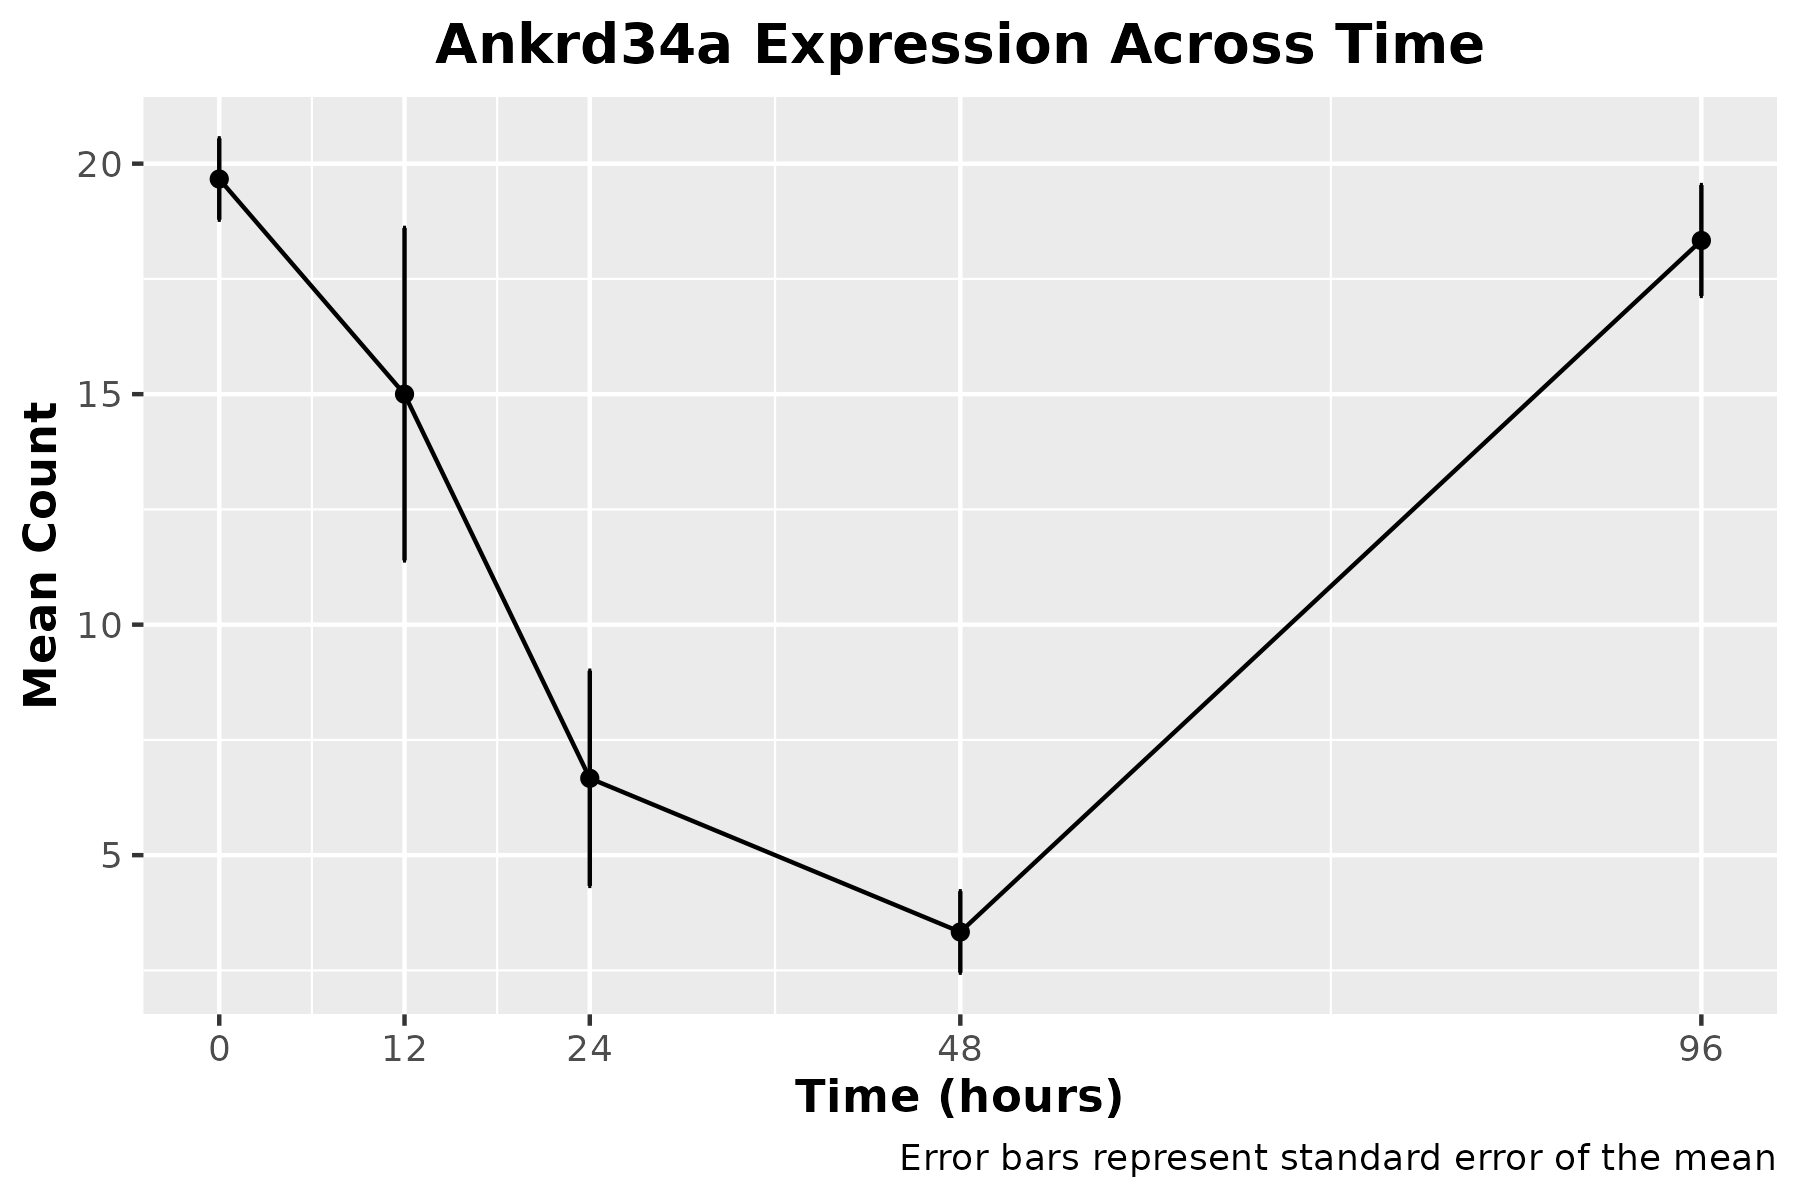
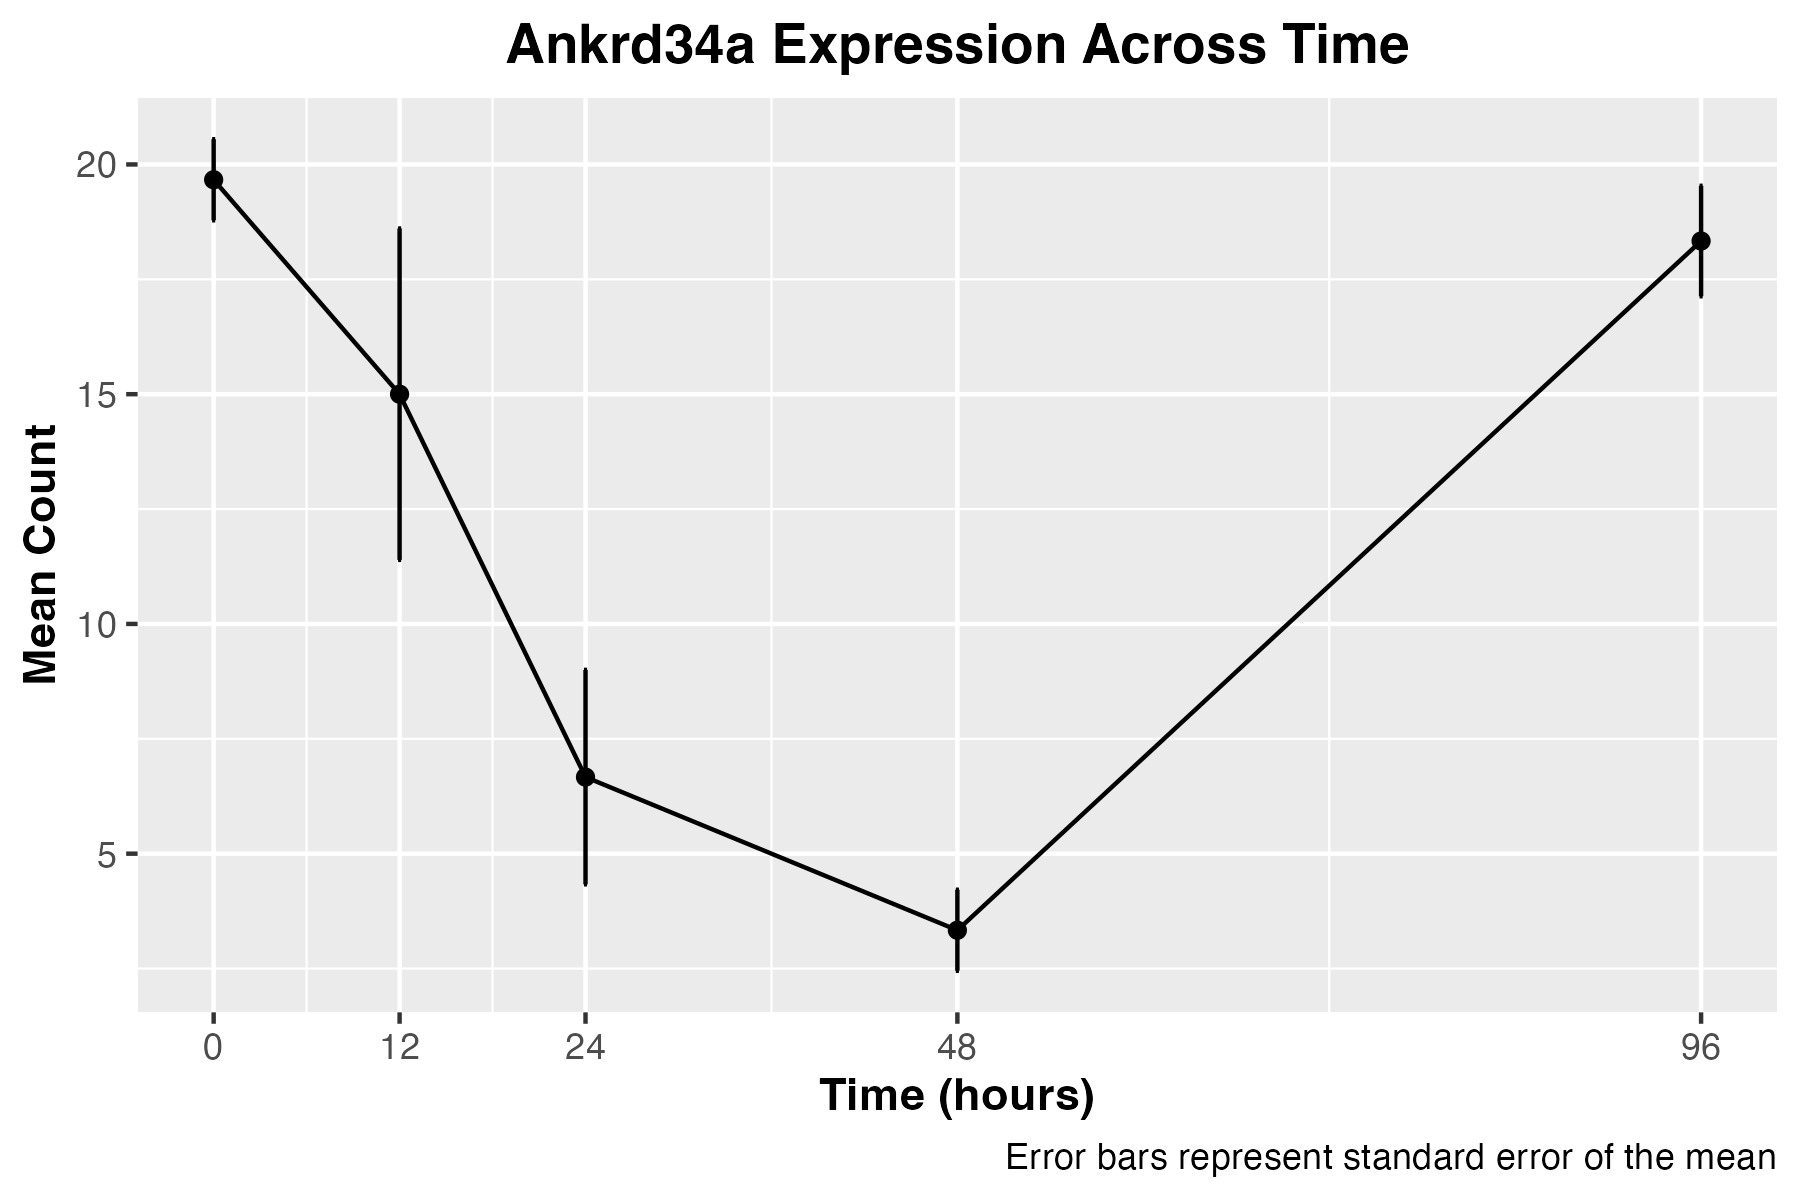
fixed duplicate named code block

diff --git a/project.md b/project.md
@@ -247,10 +247,12 @@ gene_summary_list <- lapply(gene_long_list, function(df) {
 ``` r
 for (gene in names(gene_summary_list)) {
   df <- gene_summary_list[[gene]]
+  df$timepoint <- as.numeric(as.character(df$timepoint)) 
   p <- ggplot(df, aes(x = timepoint, y = mean, group = 1)) +
     geom_line() +
     geom_point() +
     geom_errorbar(aes(ymin = mean - se, ymax = mean + se), width = 0.2) +
+    scale_x_continuous(breaks = unique(df$timepoint)) +
     labs(
       title = paste(gene, "Expression Across Time"),
       y = "Mean Count",
@@ -271,10 +273,12 @@ all_summary <- dplyr::bind_rows(gene_summary_list, .id = "gene")
 # theres some plots with a lot of standard deviation
 
 # this facet plot will show all the genes in a single .png file
-facet_plot <- ggplot(all_summary, aes(x = timepoint, y = mean, group = gene)) +
+all_summary$timepoint <- as.numeric(as.character(all_summary$timepoint)) 
+facet_plot <- ggplot(all_summary, aes(x = as.numeric(timepoint), y = mean, group = gene)) +
   geom_line() +
   geom_point() +
   geom_errorbar(aes(ymin = mean - se, ymax = mean + se), width = 0.2) +
+  scale_x_continuous(breaks = unique(all_summary$timepoint)) +
   facet_wrap(~ gene, scales = "free_y") +
   labs(
     title = "Expression Across Time",
@@ -503,7 +507,12 @@ legend("topright", legend = paste("Module", 1:max(V(network)$module)),
 
 ## AOC3 Downregulation:
 ![aoc3_expression_graph](figures/Aoc3_expression.png)
-We identified significant downregulation of a lesser-known gene that contributes to inflamation, through the production of the oxidative VAP-1 protein.
+We identified significant downregulation of a lesser-known gene that contributes to inflammation, through the production of the oxidative VAP-1(vascular adhesion protein). This protein is thought to contribute to the progression of vascular disorders and kidney complications. Additionally, its levels have been shown to be correlated with all-cause mortality rates in type 2 diabetics. 
+
+We observed a ~6.25-fold reduction of AOC3 expression from the 0 to 96 hours timepoints. Whether this trend continues further from doxycycline exposure or is a more short-term change in expression remains to be seen.
+
+Li HY, Jiang YD, Chang TJ, Wei JN, Lin MS, Lin CH, Chiang FT, Shih SR, Hung CS, Hua CH, Smith DJ, Vanio J, Chuang LM. Serum vascular adhesion protein-1 predicts 10-year cardiovascular and cancer mortality in individuals with type 2 diabetes. Diabetes. 2011 Mar;60(3):993-9. doi: 10.2337/db10-0607. Epub 2011 Jan 31. PMID: 21282368; PMCID: PMC3046860.
+
 
 ``` r
 aoc3_results <- stat_results_all %>% filter(gene == "Aoc3")
@@ -517,6 +526,26 @@ print(aoc3_results)
 ## 2 Aoc3    0 vs 24 0.03435160   0.1764706
 ## 3 Aoc3    0 vs 48 0.03420070   0.2205882
 ## 4 Aoc3    0 vs 96 0.04206386   0.1617647
+```
+
+## KLF17 Downregulation
+![Klf17_expression_graph](figures/Klf17_expression.png)
+
+We saw that the expression of the KLF17 gene had a sharp reduction in expression, reaching its lowest at 48 hours(~5.75 fold reduction). Interestingly, the expression seemed to rebound over the next 48 hours
+
+
+``` r
+klf17_results <- stat_results_all %>% filter(gene == "Klf17")
+
+print(klf17_results)
+```
+
+```
+##    gene comparison    p_value fold_change
+## 1 Klf17    0 vs 12 0.08963494   0.6400000
+## 2 Klf17    0 vs 24 0.01450699   0.2400000
+## 3 Klf17    0 vs 48 0.01764390   0.1733333
+## 4 Klf17    0 vs 96 0.03240713   0.4133333
 ```
 
 #make heatmap of all associated inflammatory proteins 
